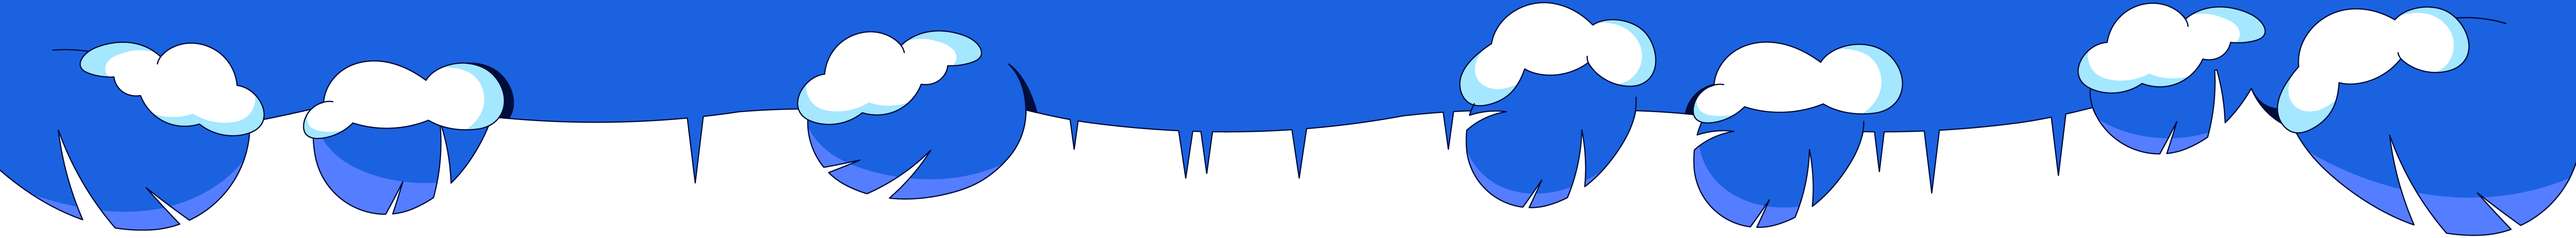
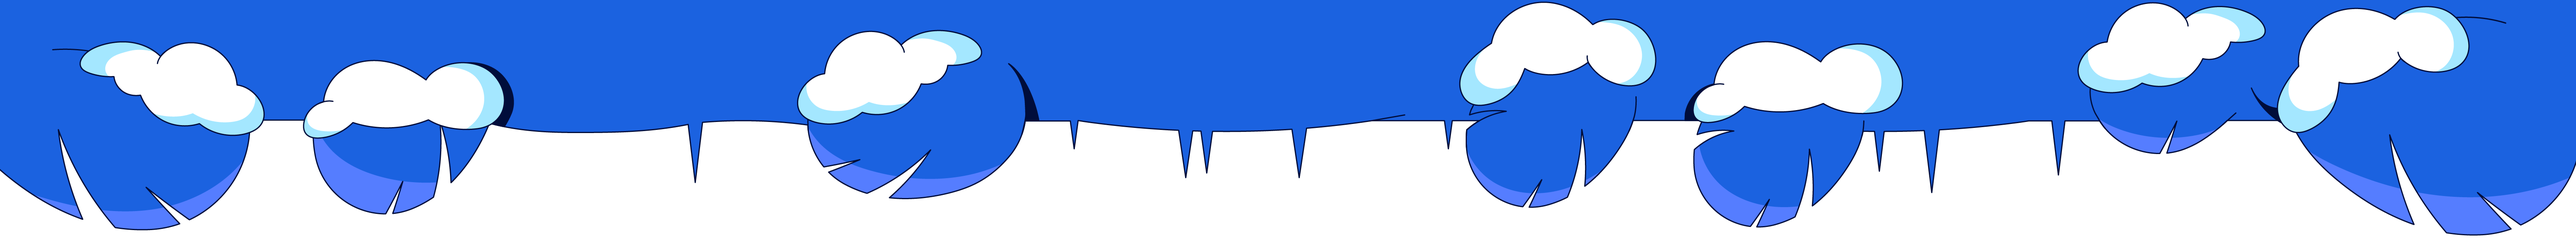
:bento: #46 update mountain assets

diff --git a/src/components/GameDecorationBleed/index.tsx b/src/components/GameDecorationBleed/index.tsx
@@ -25,9 +25,13 @@ const GameDecorationBleed: FC<Props> = ({ position }) => {
   ) as HTMLElement;
 
   const decorationHeight = useMemo(() => {
-    const height = $decoration?.offsetHeight;
+    const height = $decoration?.offsetHeight * 2;
     return height;
   }, [$decoration]);
+
+  const colorBleedHeight = useMemo(() => {
+    return bleedHeight - decorationHeight;
+  }, [bleedHeight, decorationHeight]);
 
   // return
   return (
@@ -44,6 +48,10 @@ const GameDecorationBleed: FC<Props> = ({ position }) => {
               position +
               ".png")})`
           }}
+        ></div>
+        <div
+          className="source__color-bleed"
+          style={{ height: `${colorBleedHeight}px` }}
         ></div>
       </div>
     </div>

diff --git a/src/components/GameDecorationBleed/index.scss b/src/components/GameDecorationBleed/index.scss
@@ -4,6 +4,12 @@
     position: absolute;
     width: 100%;
 
+    .source {
+      &__color-bleed {
+        background: #1b62e0;
+      }
+    }
+
     &--top {
       top: 0;
 
@@ -26,9 +32,14 @@
       bottom: 0;
 
       .source {
-        height: 200%;
         background-size: auto 100%;
         background-repeat: repeat;
+
+        &__container {
+          position: relative;
+          width: 100%;
+          height: 100%;
+        }
       }
     }
   }
